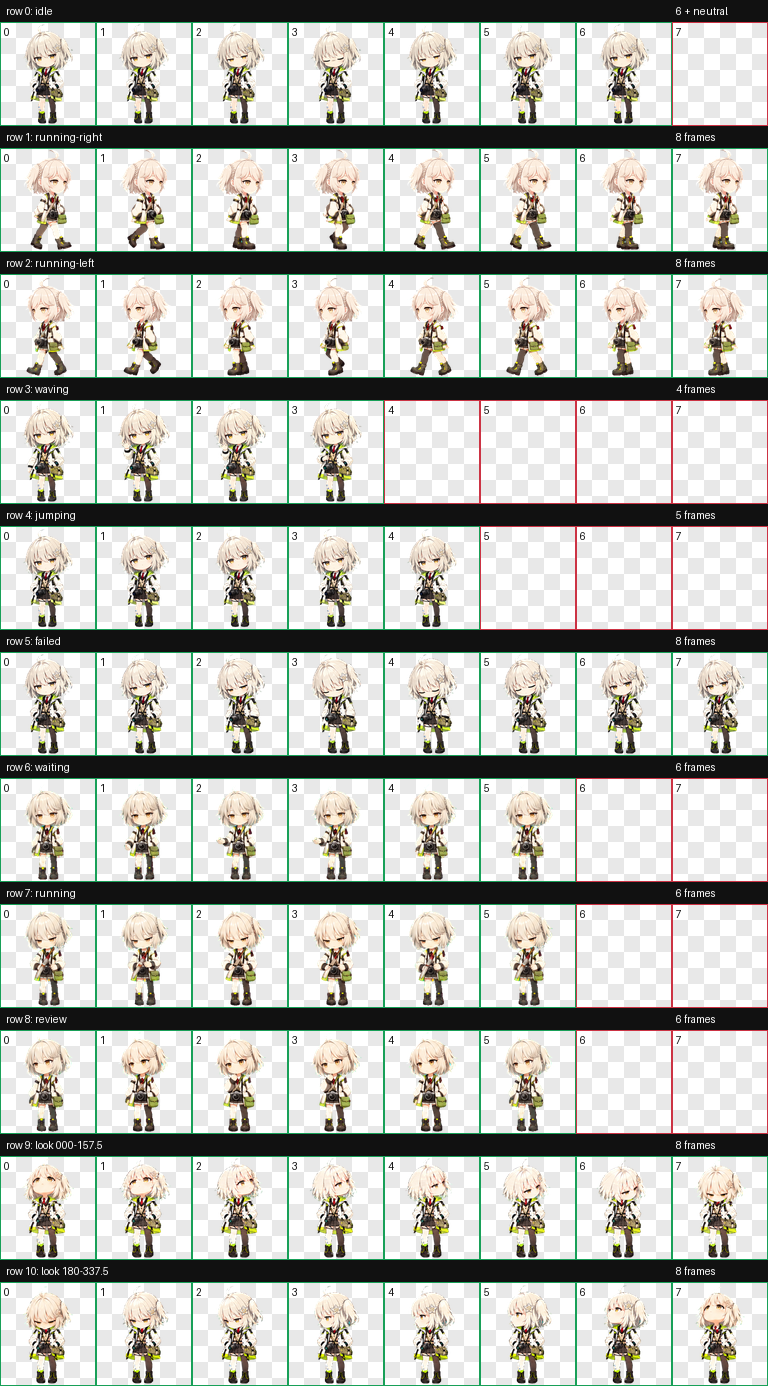
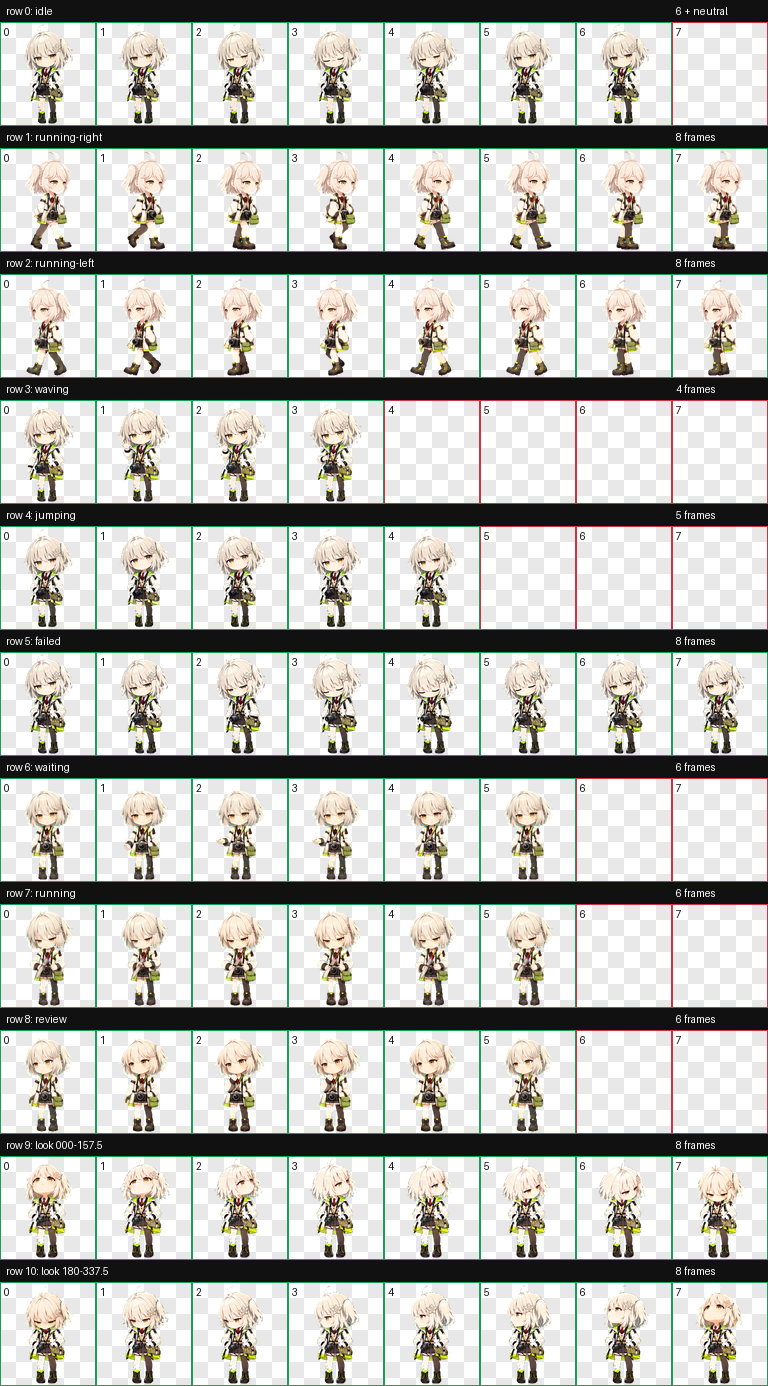
Slightly reduce the original pet walk head size

diff --git a/scripts/scale_walk_heads.py b/scripts/scale_walk_heads.py
@@ -1,0 +1,82 @@
+"""Scale right- and left-walking heads about the collar; preserve the body."""
+
+import argparse
+from pathlib import Path
+import sys
+
+from PIL import Image, ImageDraw
+
+
+def resize_head(frame, scale):
+    # Taper back to the original pixels at the collar to avoid a hard seam.
+    collar = 106
+    neck = frame.getchannel("A").crop((0, 99, 192, 104)).getbbox()
+    assert neck is not None
+    center = (neck[0] + neck[2]) / 2
+
+    def inverse(y):
+        source_scale = scale if y <= 78 else scale + (1 - scale) * (y - 78) / (collar - 78)
+        return center - center / source_scale, center + (192-center) / source_scale, collar + (y-collar) / source_scale
+
+    mesh = []
+    bands = (0, 78, 85, 92, 99, collar)
+    for y1, y2 in zip(bands,bands[1:]):
+        l1, r1, source1 = inverse(y1)
+        l2, r2, source2 = inverse(y2)
+        mesh.append(((0,y1,192,y2), (l1,source1,l2,source2,r2,source2,r1,source1)))
+    patch = frame.transform((192,collar), Image.Transform.MESH, mesh, Image.Resampling.BICUBIC)
+    transparent = patch.getchannel("A").point(lambda a: 255 if not a else 0)
+    patch.paste((0,0,0,0), mask=transparent)
+    result = frame.copy()
+    result.paste(patch, (0,0))
+    assert result.crop((0,collar,192,208)).tobytes() == frame.crop((0,collar,192,208)).tobytes()
+    return result
+
+
+def main():
+    parser = argparse.ArgumentParser(description=__doc__)
+    parser.add_argument("atlas", type=Path)
+    parser.add_argument("output", type=Path)
+    parser.add_argument("--scale", type=float, required=True)
+    parser.add_argument("--skill-scripts", type=Path, required=True)
+    args = parser.parse_args()
+    if not .90 <= args.scale < 1:
+        parser.error("--scale must be between 0.90 and 1, excluding 1")
+    sys.path.insert(0,str(args.skill_scripts))
+    from render_animation_previews import ROW_DURATIONS, save_preview
+
+    original = Image.open(args.atlas).convert("RGBA")
+    assert original.size == (1536,2288)
+    atlas = original.copy()
+    out = args.output
+    out.mkdir(parents=True,exist_ok=True)
+    comparison = Image.new("RGB",(768,880),"#313a45")
+    draw = ImageDraw.Draw(comparison)
+    for row, state in enumerate(("running-right","running-left"), start=1):
+        frames = []
+        for col in range(8):
+            x, y = col*192, row*208
+            before = original.crop((x,y,x+192,y+208))
+            after = resize_head(before,args.scale)
+            atlas.paste(after,(x,y))
+            frames.append(after)
+            if col in (0,1,4,6):
+                slot = (0,1,4,6).index(col)
+                for version, frame in enumerate((before,after)):
+                    yout = ((row-1)*2+version)*220
+                    if slot == 0:
+                        draw.text((5,yout+3),state+(" adjusted" if version else " current"),fill="white")
+                    comparison.paste(frame,(slot*192,yout+10),frame)
+        save_preview(frames,ROW_DURATIONS[state],out/f"{state}.gif")
+    sheet = out/"spritesheet.webp"
+    atlas.save(sheet,lossless=True,exact=True,method=6)
+    encoded = Image.open(sheet).convert("RGBA")
+    assert encoded.tobytes() == atlas.tobytes()
+    for row in range(11):
+        box = (0,row*208+(106 if row in (1,2) else 0),1536,(row+1)*208)
+        assert encoded.crop(box).tobytes() == original.crop(box).tobytes()
+    comparison.save(out/"head-size-comparison.png")
+
+
+if __name__ == "__main__":
+    main()
